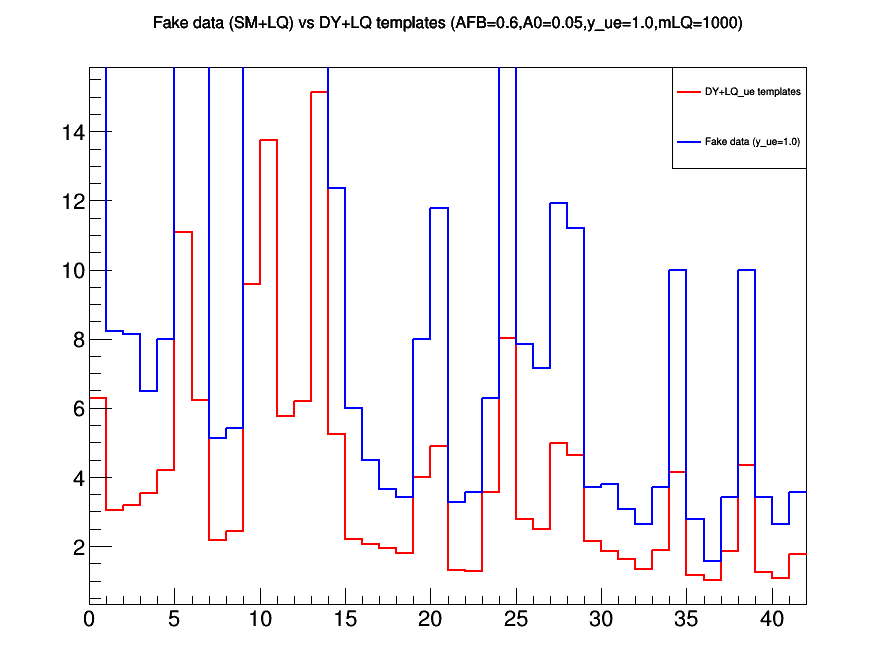
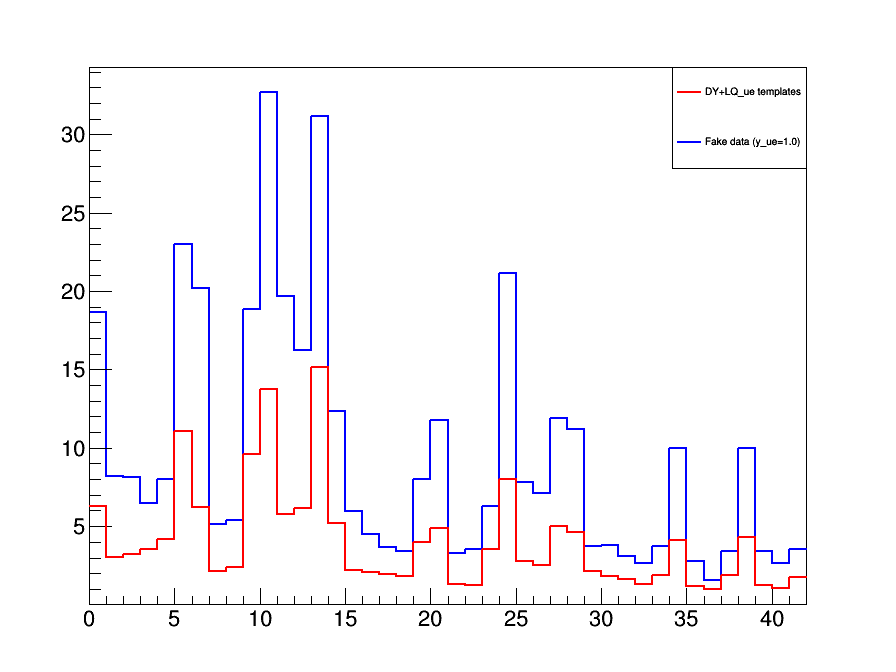
data v total

diff --git a/analyze/combine/LQ_make_gen_templates.C b/analyze/combine/LQ_make_gen_templates.C
@@ -249,8 +249,8 @@ void LQ_make_gen_templates(){
         h1_data->SetLineWidth(2);
         h1_total->SetLineWidth(2); 
         h1_total->SetTitle("Fake data (SM+LQ) vs DY+LQ templates (AFB=0.6,A0=0.05,y_ue=1.0,mLQ=1000)");
-        h1_total->Draw("hist");
-        h1_data->Draw("hist same ");
+        h1_data->Draw("hist");
+        h1_total->Draw("hist same ");
         TLegend *leg1 = new TLegend(0.75, 0.75, 0.9, 0.9);
         leg1->AddEntry(h1_total, "DY+LQ_ue templates", "l");
         leg1->AddEntry(h1_data, "Fake data (y_ue=1.0)", "l");
